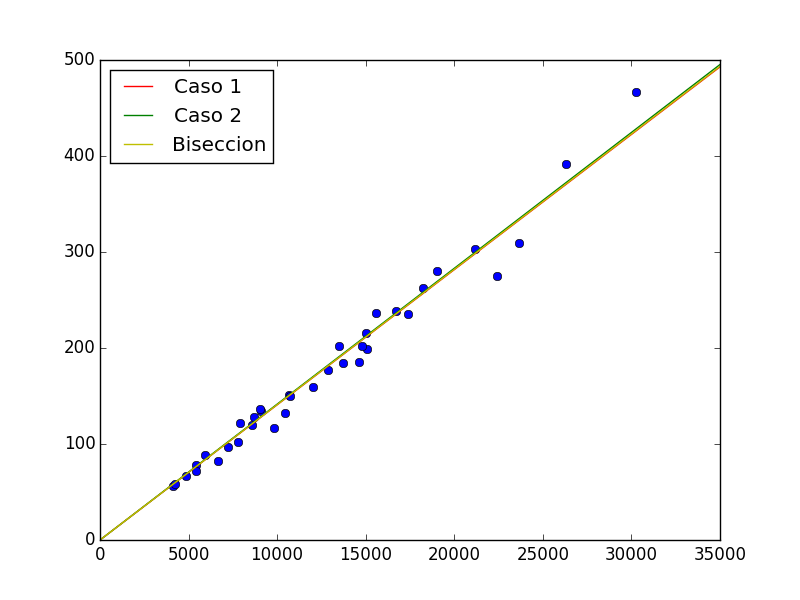
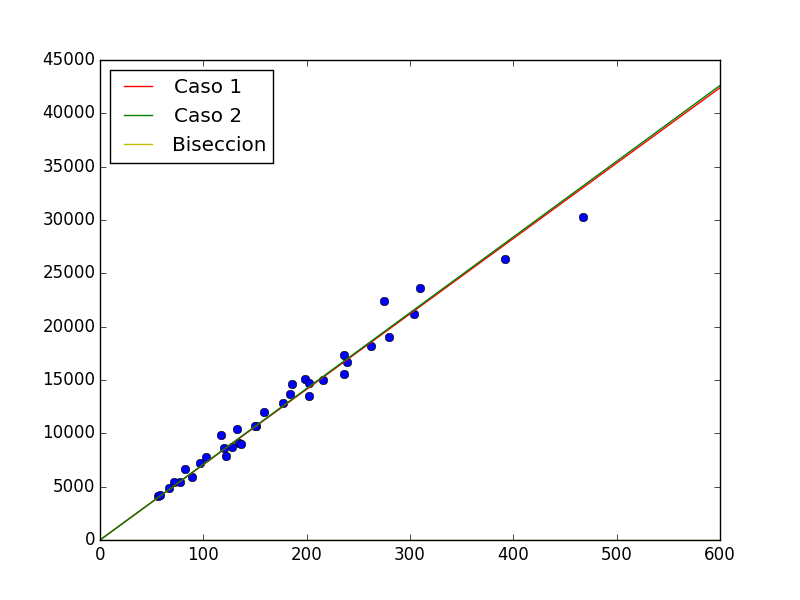
se habian tomado al reves las columnas de velocidad y distancia y por eso debia elevar a la menos 1. Se arregla lo anterior

diff --git a/p2.py b/p2.py
@@ -10,25 +10,25 @@ def biseccion(a1, a2):
 
 # importando los datos
 file_path = os.path.join('data', 'SNIa.dat')
-distancias = np.loadtxt(fname=file_path, usecols=(1,))
-velocidades = np.loadtxt(fname=file_path, usecols=(2,))
+distancias = np.loadtxt(fname=file_path, usecols=(2,))
+velocidades = np.loadtxt(fname=file_path, usecols=(1,))
 
-# 1 / H0_1 = suma(vi*di) / suma(di)
+# H0_1 = suma(vi*di) / suma(di)
 numerador = 0
 denominador = 0
 for i in range(len(distancias)):
     numerador += velocidades[i] * distancias[i]
     denominador += distancias[i] * distancias[i]
-H0_1 = (numerador / denominador)**-1
+H0_1 = (numerador / denominador)
 print H0_1
 
-# 1 / H0_2 = suma(di^2) / suma(vi/di)
+# H0_2 = suma(vi^2) / suma(vi*di)
 numerador_2 = 0
 denominador_2 = 0
 for i in range(len(distancias)):
     numerador_2 += velocidades[i] * velocidades[i]
     denominador_2 += velocidades[i] * distancias[i]
-H0_2 = (numerador_2 / denominador_2)**-1
+H0_2 = (numerador_2 / denominador_2)
 print H0_2
 
 # buscando intervalo de confianza al 95
@@ -51,8 +51,8 @@ for i in range(Nboot):
         den_1 += distancias[j] * distancias[j]
         num_2 += velocidades[j] * velocidades[j]
         den_2 += velocidades[j] * distancias[j]
-    values_1[i] = np.mean((num_1 / den_1)**-1)
-    values_2[i] = np.mean((num_2 / den_2)**-1)
+    values_1[i] = np.mean(num_1 / den_1)
+    values_2[i] = np.mean(num_2 / den_2)
     values_bis[i] = biseccion(values_1[i], values_2[i])
 
 values_ord = np.sort(values_bis)
@@ -63,12 +63,12 @@ print "El intervalo de confianza al 95% es: [{}:{}]".format(limite_bajo,
 
 
 # plot 1
-x=np.linspace(0,35000,1000)
+x=np.linspace(0,600,1000)
 fig1 = plt.figure(1)
 fig1.clf()
 plt.plot(distancias, velocidades, 'o')
-plt.plot(x, x*(H0_1**-1), color='r', label="Caso 1")
-plt.plot(x, x*(H0_2**-1), color='g', label="Caso 2")
+plt.plot(x, x*(H0_1), color='r', label="Caso 1")
+plt.plot(x, x*(H0_2), color='g', label="Caso 2")
 plt.plot(x, x*(np.mean(values_bis)**-1), color='y', label="Biseccion")
 plt.legend(loc=2)
 plt.draw()

diff --git a/p1.py b/p1.py
@@ -22,7 +22,7 @@ for i in range(len(distancias)):
 H0_1 = numerador / denominador
 print H0_1
 
-# H0_2 = suma(di^2) / suma(vi/di)
+# H0_2 = suma(vi^2) / suma(vi*di)
 numerador_2 = 0
 denominador_2 = 0
 for i in range(len(distancias)):
